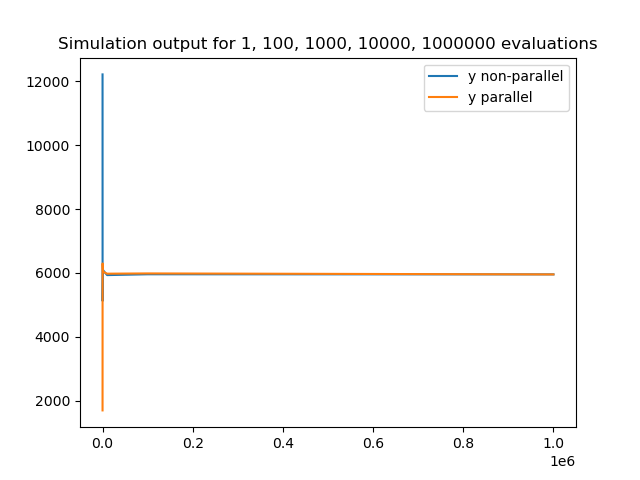
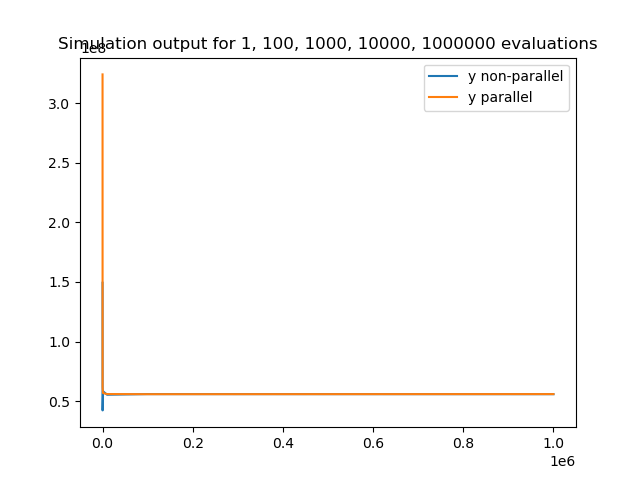
fixed issue where parallel simulation returned different results to sequenntial simulation, fixed issue with Pool creating memory leak, set "parallel" default to "False"

diff --git a/src/pyoptes/optimization/budget_allocation/target_function.py b/src/pyoptes/optimization/budget_allocation/target_function.py
@@ -13,9 +13,10 @@ Output: an estimate of the number of infected animals at the time the simulation
 
 import numpy as np
 from ...epidemiological_models.si_model_on_transmissions import SIModelOnTransmissions
+from functools import partial
 from multiprocessing import cpu_count, Pool
 
-global model, capacities, network, pool
+global model, capacities, network
 
 
 def prepare(use_real_data=False, 
@@ -25,7 +26,6 @@ def prepare(use_real_data=False,
             expected_time_of_first_infection=30, 
             capacity_distribution=np.random.uniform, # any function accepting a 'size=' parameter
             delta_t_symptoms=30,
-            parallel=False
             ):
     """Prepare the target function before being able to evaluate it for the 
     first time.
@@ -43,7 +43,7 @@ def prepare(use_real_data=False,
     infection should be detected automatically even without a test.
     """
 
-    global model, capacities, network, pool
+    global model, capacities, network
     
     if use_real_data:
         from pyoptes.networks.transmissions.hitier_schweine import load_transdataarray
@@ -126,8 +126,6 @@ def prepare(use_real_data=False,
         stopping_delay = 1,
         verbose = False,
         )
-
-    pool = Pool(cpu_count()) if parallel else None
     
         
 def get_n_inputs():
@@ -142,22 +140,29 @@ def simulate_infection():
     # run until detection:
     model.run()
     # return a vector of bools stating which farms are infected at the end:
-    return model.is_infected[model.t,:]
+    return model.is_infected[model.t, :]
+
 
 def n_infected_animals(is_infected):
     return np.sum(capacities * is_infected)
-    
+
+
 def mean_square_and_stderr(n_infected_animals):
     values = n_infected_animals**2
     estimate = np.mean(values, axis=0)
     stderr = np.std(values, ddof=1, axis=0) / np.sqrt(values.shape[0])
-    return (estimate, stderr)
+    return estimate, stderr
+
+
+def task(unused_simulation_index, aggregation):
+    return aggregation(simulate_infection())
+
 
 def evaluate(budget_allocation, 
              n_simulations=1, 
-             aggregation=n_infected_animals,  # any function converting an array of infection bools into an aggregated "damage"
-             statistic=mean_square_and_stderr,  # any function converting an array of aggregated results into one or more overall indicators
-             parallel=True):
+             aggregation=n_infected_animals,
+             statistic=mean_square_and_stderr,
+             parallel=False):
     """Run the SIModelOnTransmissions a single time, using the given budget 
     allocation, and return the number of nodes infected at the time the 
     simulation is stopped. Since the simulated process is a stochastic
@@ -170,6 +175,7 @@ def evaluate(budget_allocation,
     - np.max
     - lambda a: np.percentile(a, 95)
     
+    @param aggregation: any function converting an array of infection bools into an aggregated "damage"
     @param parallel: (bool) Sets whether the simulations runs are computed in parallel. Default is set to True.
     @param budget_allocation: (array of floats) expected number of tests per
     year, indexed by node
@@ -189,13 +195,11 @@ def evaluate(budget_allocation,
     
     model.daily_test_probabilities = budget_allocation / 365
 
-    def task(unused_simulation_index):
-        return aggregation(simulate_infection())
-    
-    if parallel and (pool is not None):
-        results = pool.map(task, range(n_simulations))
+    if parallel:
+        with Pool(cpu_count()) as pool:
+            results = pool.map(partial(task, aggregation=aggregation), range(n_simulations))
     else:
-        results = [task(sim) for sim in range(n_simulations)]
+        results = [task(sim, aggregation) for sim in range(n_simulations)]
 
     # return the requested statistic:
     return statistic(np.array(results))

diff --git a/src/test_parallelization.py b/src/test_parallelization.py
@@ -17,8 +17,8 @@ n_nodes = 120
 fp.prepare(
     n_nodes=n_nodes,  # instead of 60000, since this should suffice in the beginning
     capacity_distribution=np.random.lognormal,  # this is more realistic than a uniform distribution
-    delta_t_symptoms=60  # instead of 30, since this gave a clearer picture in Sara's simulations
-    )
+    delta_t_symptoms=60,  # instead of 30, since this gave a clearer picture in Sara's simulations
+    parallel=True)
 
 total_budget = 1.0 * n_nodes
 
@@ -28,6 +28,7 @@ shares = weights / weights.sum()
 x = shares * total_budget
 
 a = time()
+# y = np.mean([fp.evaluate(x, n_simulations=n_simulations, parallel=False) for _ in range(100)])
 y = fp.evaluate(x, n_simulations=n_simulations, parallel=False)
 b = time()-a
 print('Non-parallel simulation')
@@ -36,7 +37,8 @@ print(f'y: {y}')
 
 
 a = time()
-y = fp.evaluate(x, n_simulations=n_simulations)
+# y = np.mean([fp.evaluate(x, n_simulations=n_simulations) for _ in range(100)])
+y = fp.evaluate(x, n_simulations=n_simulations, parallel=True)
 b = time()-a
 print('Parallel simulation')
 print(f'Time for {n_simulations} simulations of: {b}')
@@ -55,7 +57,7 @@ for s in tqdm(n):
     tl.append(time() - a)
 
     a = time()
-    ylp.append(fp.evaluate(x, n_simulations=s))
+    ylp.append(fp.evaluate(x, n_simulations=s, parallel=True))
     tlp.append(time() - a)
 
 plt.plot(n, yl, label='y non-parallel')
